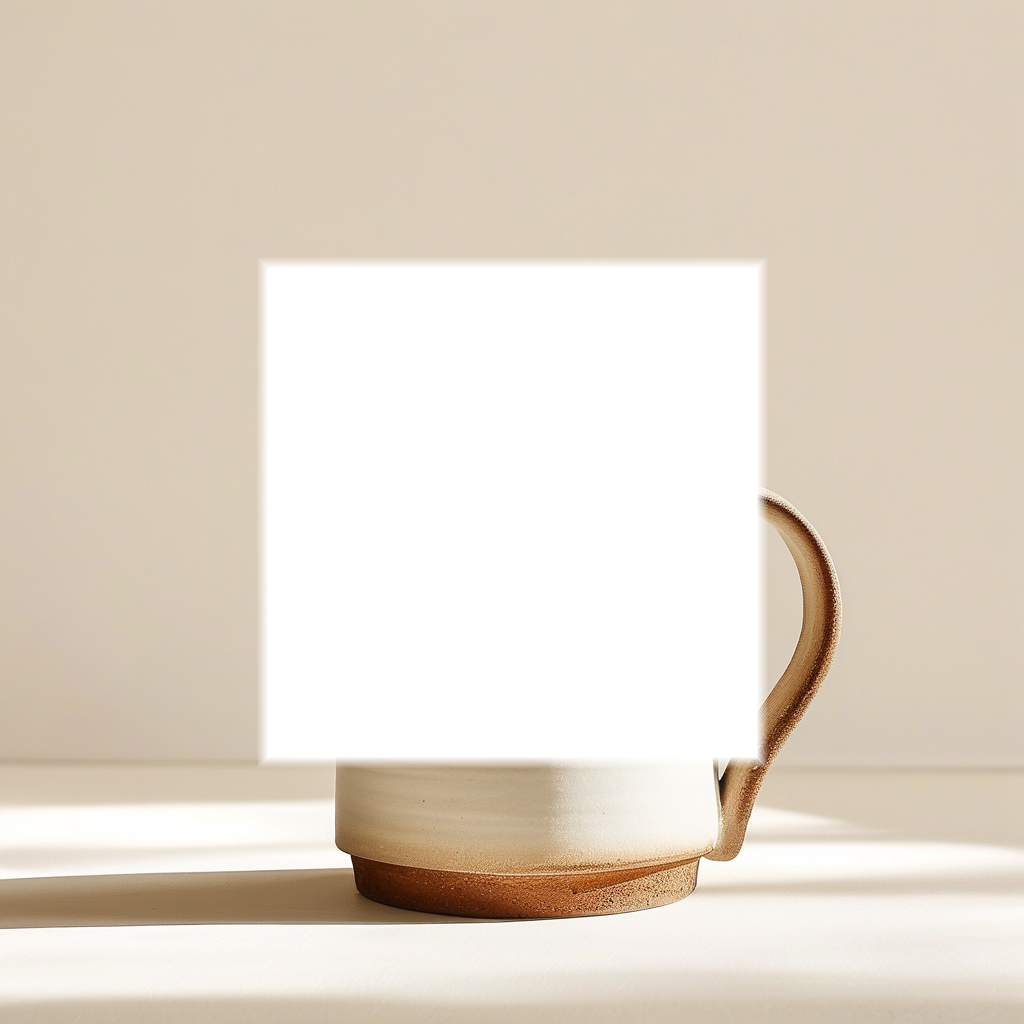
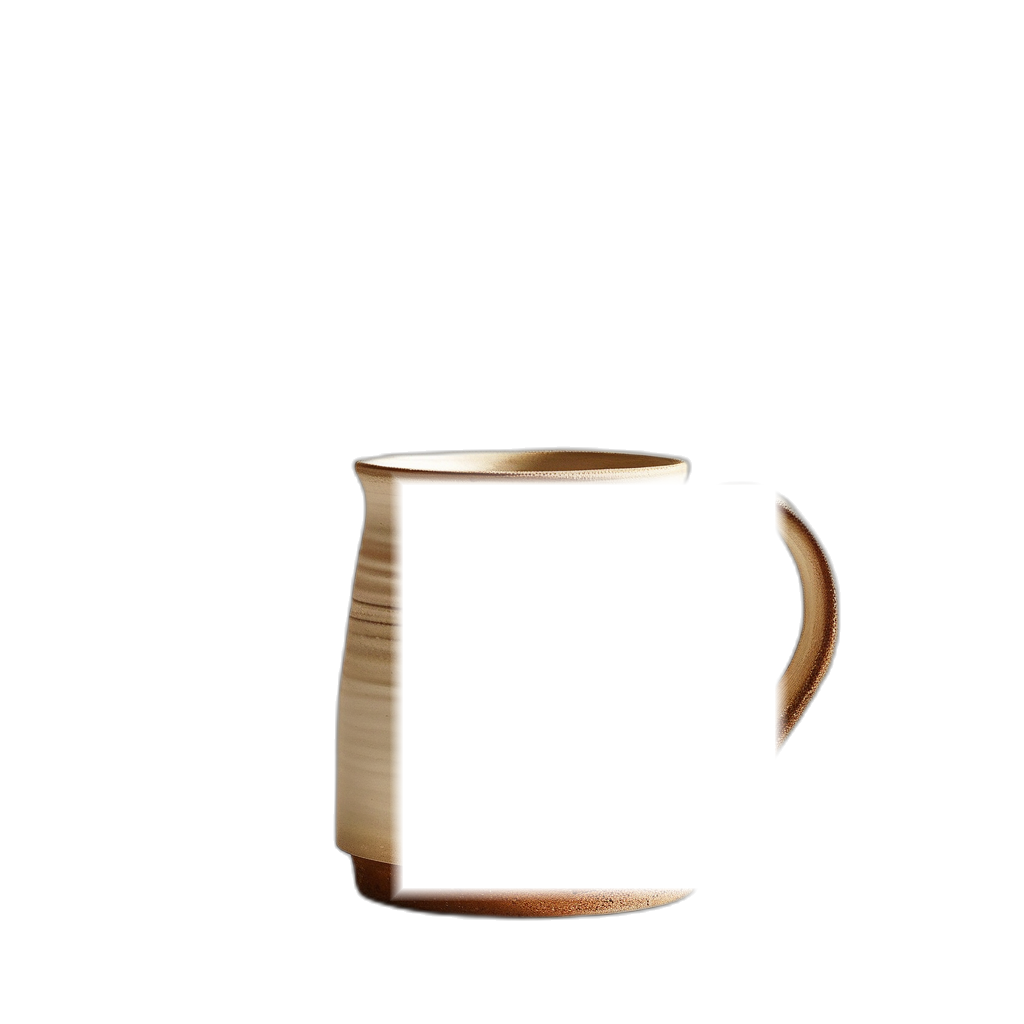
feat: 马克杯换用透明背景 mockup + 三层渲染方案
- 用 rembg AI 抠图将 mug.png 转为透明背景版本
- 生成 mug-fg.png 前景遮罩（杯身正面透明，把手+杯口不透明）
- 渲染方案改为三层：底图→设计图→前景遮罩
- blendMode 改为 normal（透明背景不需要 multiply）
- shape 改为 rect（前景遮罩方案不需要圆柱变形）
- zone 坐标精确对齐杯身可印刷区域（排除把手 x=0.78~0.82）

diff --git a/src/lib/totem-mapping.ts b/src/lib/totem-mapping.ts
@@ -96,29 +96,29 @@ export const PRODUCT_CONFIGS: Record<ProductType, ProductConfig> = {
     label: { zh: '马克杯', en: 'Mug' },
     mockupBase: '/mockups/mug.png',
     mockupFg: '/mockups/mug-fg.png',
-    blendMode: 'multiply',
+    blendMode: 'normal',
     zones: [
       {
-        // 外壁正面：杯身中间 60% 宽度，精确对齐杯身像素边界
+        // 外壁正面：杯身可印刷区域（透明背景方案，不需要圆柱变形）
         // 杯身实测: x=0.344~0.816, y=0.440~0.894（1024x1024 图）
-        // 杯身可印刷区域（去掉杯口和杯底边缘）：y=0.46~0.86
+        // 可印刷区域（排除把手）: x=0.38~0.77
         id: 'outer-front',
         label: { zh: '外壁正面', en: 'Outer Front' },
         meaning: { zh: '每次饮茶时与图腾相遇，日常仪式感', en: 'Meet your totem with every sip — daily ritual' },
-        x: 0.440, y: 0.460, width: 0.280, height: 0.380,
+        x: 0.390, y: 0.460, width: 0.370, height: 0.400,
         cornerRatio: 0.10,
-        shape: 'cylinder-outer',
-        shapeParams: { curvature: 0.42, perspective: 0.14, fillRatio: 0.82 },
+        shape: 'rect',
+        shapeParams: { fillRatio: 0.85 },
       },
       {
         // 外壁环绕：杯身全宽
         id: 'outer-wrap',
         label: { zh: '外壁环绕', en: 'Full Wrap' },
         meaning: { zh: '360° 环绕印刷，图腾守护四方', en: '360° wrap — your totem guards every angle' },
-        x: 0.344, y: 0.460, width: 0.473, height: 0.380,
+        x: 0.344, y: 0.460, width: 0.460, height: 0.400,
         cornerRatio: 0.08,
-        shape: 'cylinder-outer',
-        shapeParams: { curvature: 0.62, perspective: 0.20, fillRatio: 0.85 },
+        shape: 'rect',
+        shapeParams: { fillRatio: 0.88 },
       },
     ],
   },
